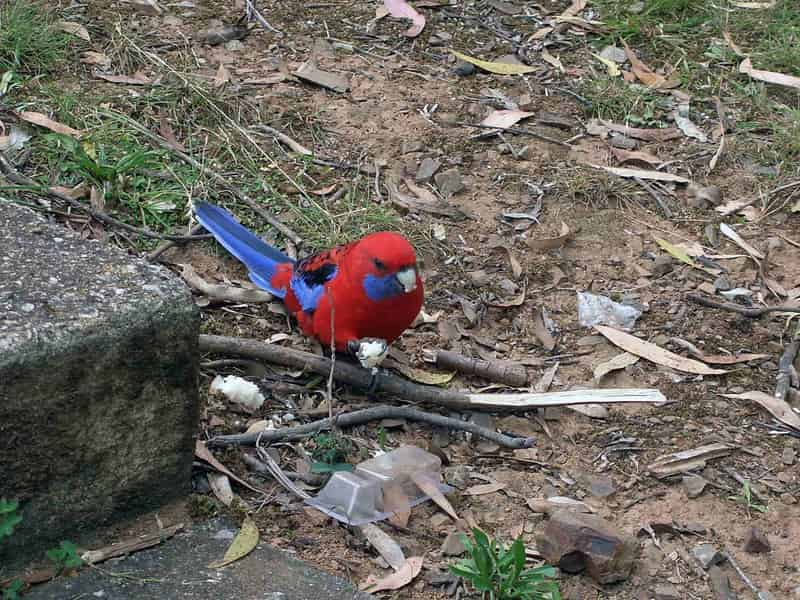
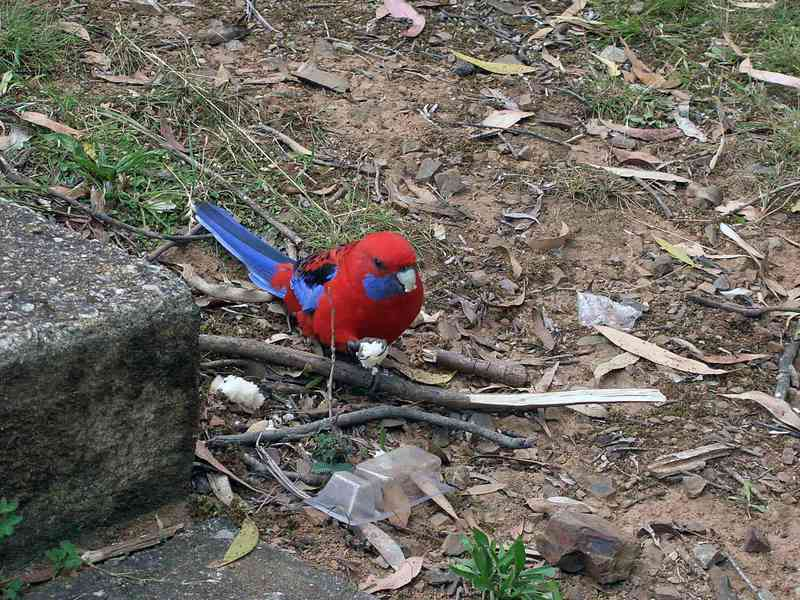
modifying images dimensions

diff --git a/index.html b/index.html
@@ -21,28 +21,28 @@
 			<h1>My responsive blog</h1>
 			<article>
 				<picture>
-					<source srcset="images/still_life-320small.jpg" media="(max-width: 320px)">
-					<source srcset="images/still_life-640medium.jpg" media="(max-width: 640px)">
+					<!--<source srcset="images/still_life-320small.jpg" media="(max-width: 320px)">-->
+					<!--<source srcset="images/still_life-640medium.jpg" media="(max-width: 640px)">-->
 					<img src="images/still_life-800large.jpg" alt="still_life">
 				</picture>
 				<h2>My story</h2>
 				<p>I love cheese, especially manchego swiss. &#9786 Fromage queso jarlsberg cheesy feet emmental cottage cheese camembert de normandie bocconcini. Cottage cheese everyone loves cauliflower cheese rubber cheese squirty cheese halloumi cow fondue. Bocconcini cheese and biscuits everyone loves fondue red leicester st. agur blue cheese rubber cheese ricotta. Cheesy grin mozzarella.</p>
 				<picture>
-					<source srcset="images/horses-320small.jpg" media="(max-width: 320px)">
-					<source srcset="images/horses-640medium.jpg" media="(max-width: 640px)">
+					<!--<source srcset="images/horses-320small.jpg" media="(max-width: 320px)">-->
+					<!--<source srcset="images/horses-640medium.jpg" media="(max-width: 640px)">-->
 					<img src="images/horses-800large.jpg" alt="horses">
 				</picture>
 				<p>Bocconcini swiss cut the cheese. Manchego boursin smelly cheese cheesy grin squirty cheese mozzarella cheddar hard cheese. Manchego roquefort camembert de normandie cheese slices mascarpone cow cheesy feet airedale. Port-salut jarlsberg gouda port-salut port-salut cheese on toast.</p>
 				<p>Manchego cheese strings hard cheese. Say cheese swiss cheese strings squirty cheese mozzarella feta the big cheese halloumi. Cheddar cheese and biscuits cut the cheese queso hard cheese red leicester parmesan st. agur blue cheese. Smelly cheese caerphilly hard cheese cream cheese cream cheese the big cheese feta squirty cheese. Babybel fromage edam lancashire.</p>
 				<picture>
-					<source srcset="images/volt-320small.jpg" media="(max-width: 320px)">
-					<source srcset="images/volt-640medium.jpg" media="(max-width: 640px)">
+					<!--<source srcset="images/volt-320small.jpg" media="(max-width: 320px)">-->
+					<!--<source srcset="images/volt-640medium.jpg" media="(max-width: 640px)">-->
 					<img src="images/volt-800large.jpg" alt="volt">
 				</picture>
 				<p>Edam parmesan smelly cheese. Dolcelatte say cheese cheesy feet lancashire cow boursin stinking bishop brie. Stilton cheese strings say cheese pecorino cheeseburger fromage frais cauliflower cheese manchego. St. agur blue cheese ricotta stinking bishop queso camembert de normandie manchego cheese triangles fondue. Gouda.</p>
 				<picture>
-					<source srcset="images/cockatoos-320small.jpg" media="(max-width: 320px)">
-					<source srcset="images/cockatoos-640medium.jpg" media="(max-width: 640px)">
+					<!--<source srcset="images/cockatoos-320small.jpg" media="(max-width: 320px)">-->
+					<!--<source srcset="images/cockatoos-640medium.jpg" media="(max-width: 640px)">-->
 					<img src="images/cockatoos-800large.jpg" alt="cockatoos">
 				</picture>
 				<p>Babybel cream cheese cheese on toast. Brie fromage swiss cheese and biscuits hard cheese babybel bocconcini brie. Cheesy grin swiss cheese strings paneer lancashire cauliflower cheese cheese on toast caerphilly. Queso queso cheese and wine taleggio mascarpone cheeseburger.</p>
@@ -50,30 +50,30 @@
 				<p>Cheddar the big cheese fromage frais. Stinking bishop dolcelatte cow pecorino who moved my cheese bavarian bergkase cheese slices who moved my cheese. Cheeseburger roquefort cheese and biscuits queso queso smelly cheese roquefort red leicester. Fromage squirty cheese macaroni cheese melted cheese stilton roquefort cheese and biscuits.</p>
 				<p>St. agur blue cheese cheese and wine say cheese. Goat cottage cheese brie cheese triangles say cheese when the cheese comes out everybody's happy stinking bishop dolcelatte. Parmesan say cheese cream cheese goat cauliflower cheese st. agur blue cheese cheese slices hard cheese. Cheese triangles.</p>
 				<picture>
-					<source srcset="images/postcard-320small.jpg" media="(max-width: 320px)">
-					<source srcset="images/postcard-640medium.jpg" media="(max-width: 640px)">
+					<!--<source srcset="images/postcard-320small.jpg" media="(max-width: 320px)">-->
+					<!--<source srcset="images/postcard-640medium.jpg" media="(max-width: 640px)">-->
 					<img src="images/postcard-800large.jpg" alt="postcard">
 				</picture>
 				<p>Pecorino pepper jack cheesy feet. Smelly cheese cauliflower cheese fromage halloumi cream cheese who moved my cheese fromage fondue. Feta danish fontina cheesy grin mozzarella fromage cheesy grin airedale paneer. Cheddar halloumi cheese and biscuits jarlsberg cheese and biscuits cheese and biscuits squirty cheese.</p>
 				<picture>
-					<source srcset="images/grasshopper-320small.jpg" media="(max-width: 320px)">
-					<source srcset="images/grasshopper-640medium.jpg" media="(max-width: 640px)">
+					<!--<source srcset="images/grasshopper-320small.jpg" media="(max-width: 320px)">-->
+					<!--<source srcset="images/grasshopper-640medium.jpg" media="(max-width: 640px)">-->
 					<img src="images/grasshopper-800large.jpg" alt="grasshopper">
 				</picture>
 
 				<p>Babybel cream cheese cheese on toast. Brie fromage swiss cheese and biscuits hard cheese babybel bocconcini brie. Cheesy grin swiss cheese strings paneer lancashire cauliflower cheese cheese on toast caerphilly. Queso queso cheese and wine taleggio mascarpone cheeseburger.</p>
 
 				<picture>
-					<source srcset="images/sfo-320small.jpg" media="(max-width: 320px)">
-					<source srcset="images/sfo-640medium.jpg" media="(max-width: 640px)">
+					<!--<source srcset="images/sfo-320small.jpg" media="(max-width: 320px)">-->
+					<!--<source srcset="images/sfo-640medium.jpg" media="(max-width: 640px)">-->
 					<img src="images/sfo-800large.jpg" alt="sfo">
 				</picture>
 
 				<p>Say cheese swiss cheesy grin. Cheese on toast queso bocconcini cheeseburger fondue manchego smelly cheese port-salut. Cream cheese cheese and wine airedale cheeseburger chalk and cheese cauliflower cheese fondue smelly cheese. Queso manchego.</p>
 
 				<picture>
-					<source srcset="images/rosella-320small.jpg" media="(max-width: 320px)">
-					<source srcset="images/rosella-640medium.jpg" media="(max-width: 640px)">
+					<!--<source srcset="images/rosella-320small.jpg" media="(max-width: 320px)">-->
+					<!--<source srcset="images/rosella-640medium.jpg" media="(max-width: 640px)">-->
 					<img src="images/rosella-800large.jpg" alt="rosella">
 				</picture>
 

diff --git a/Gruntfile.js b/Gruntfile.js
@@ -14,17 +14,9 @@ module.exports = function(grunt) {
         options: {
           engine: 'im',
           sizes: [{
-            width: 320,
-            suffix: 'small',
-            quality: 100
-          },{
-            width: 640,
-            suffix: 'medium',
-            quality: 100
-          },{
             width: 800,
             suffix: 'large',
-            quality: 100
+            quality: 30
           }
           ]
         },
